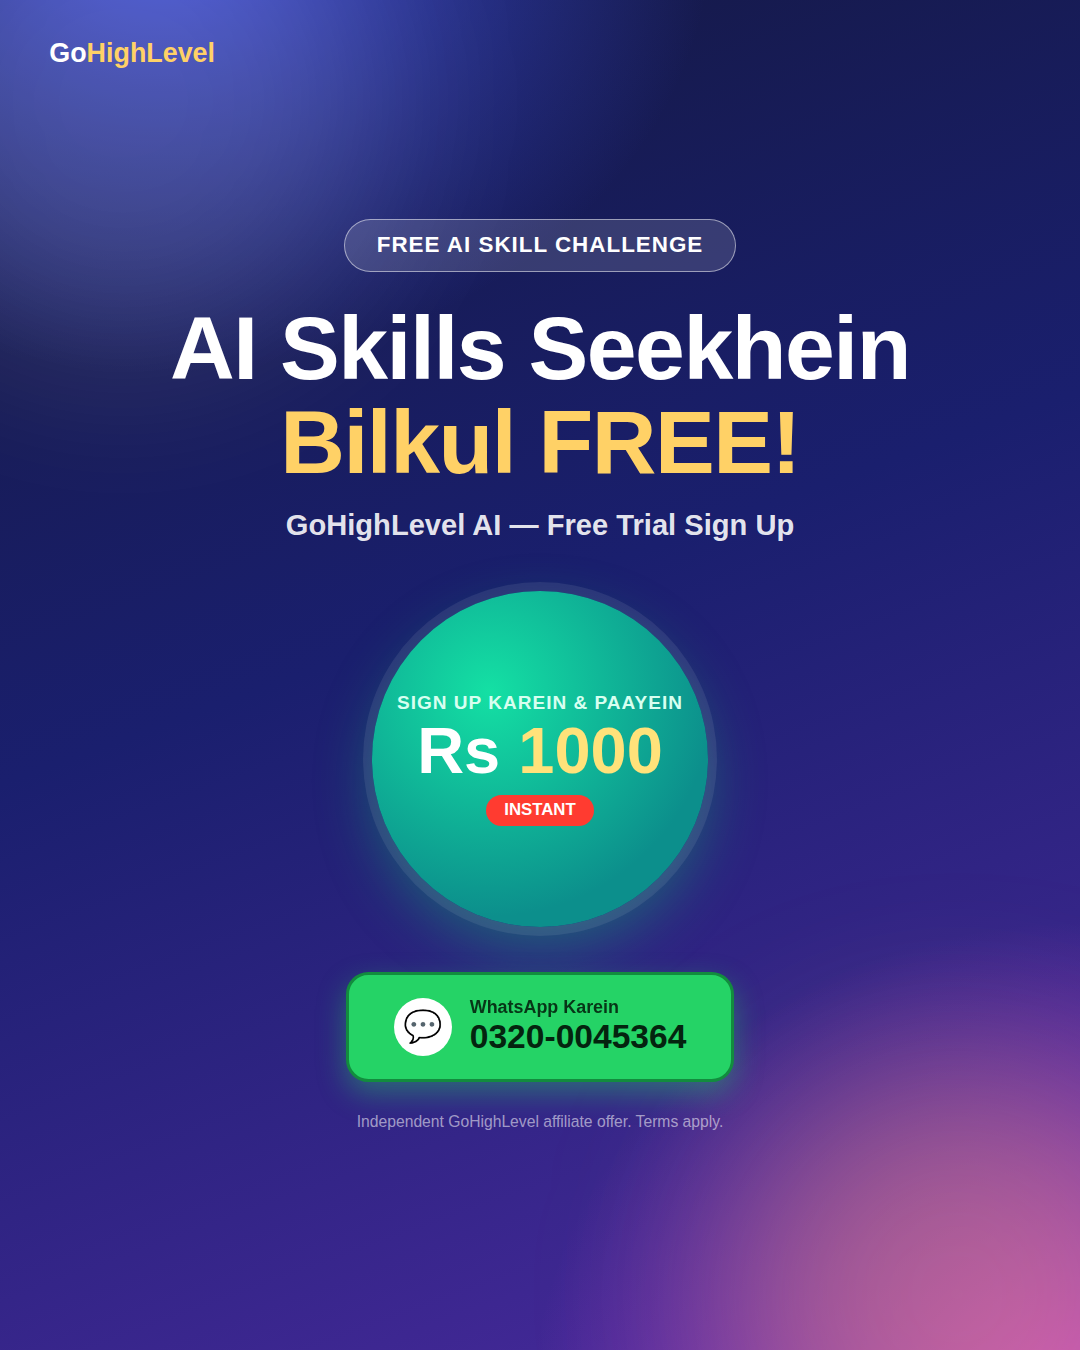
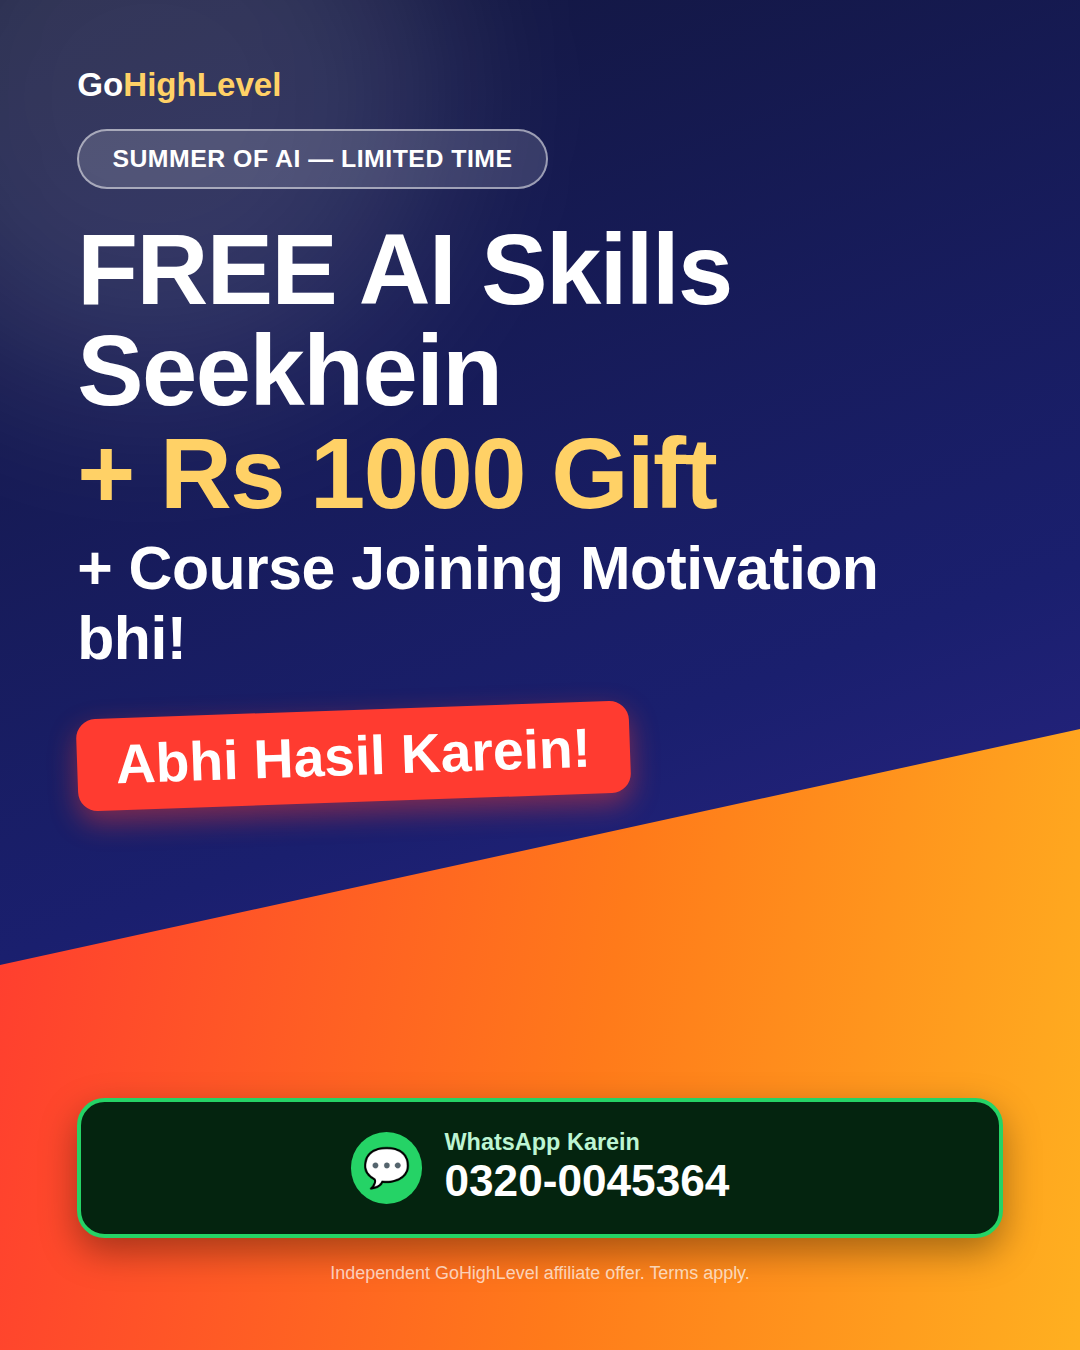
Redesign Pakistan ads with diagonal split layout and bigger bold text
New copy: "FREE AI Skills Seekhein + Rs 1000 Gift + Course Joining
Motivation bhi! Abhi Hasil Karein!" Layout changed from the centered
circular badge to a dynamic diagonal two-tone split with big
left-aligned stacked headline text, scaled larger and bolder per
format (1.08x / 1.38x / 1.85x for FB / IG / WhatsApp Status).

diff --git a/ads-source/gohighlevel-summer-of-ai-bold-pk/template.js b/ads-source/gohighlevel-summer-of-ai-bold-pk/template.js
@@ -10,86 +10,82 @@ function buildHtml({ width, height, scale }) {
 
   .stage {
     position:relative; width:100%; height:100%; overflow:hidden;
-    background: radial-gradient(1000px 800px at 15% -5%, #3b4bd8 0%, transparent 55%),
-                radial-gradient(1000px 900px at 100% 105%, #c23fd0 0%, transparent 55%),
-                linear-gradient(160deg, #14183f 0%, #1a1f6e 45%, #4a2a9e 100%);
-    display:flex; flex-direction:column; align-items:center; justify-content:center;
-    text-align:center; color:#fff; padding:0 ${64 * s}px;
+    background: linear-gradient(160deg, #12163c 0%, #1a1f6e 55%, #3b2a9e 100%);
+    color:#fff;
   }
-  .stage::before, .stage::after { content:""; position:absolute; border-radius:50%; filter:blur(90px); }
-  .stage::before { width:${460*s}px; height:${460*s}px; background:rgba(255,255,255,0.14); top:${-140*s}px; left:${-120*s}px; }
-  .stage::after { width:${420*s}px; height:${420*s}px; background:rgba(255,190,80,0.3); bottom:${-160*s}px; right:${-100*s}px; }
+  .diag {
+    position:absolute; left:0; right:0; bottom:0; height:46%;
+    background: linear-gradient(100deg, #ff3b30 0%, #ff7a1a 55%, #ffb020 100%);
+    clip-path: polygon(0 38%, 100% 0%, 100% 100%, 0% 100%);
+  }
+  .glow { position:absolute; border-radius:50%; filter:blur(90px); }
+  .glow1 { width:${420*s}px; height:${420*s}px; background:rgba(255,255,255,0.14); top:${-140*s}px; left:${-100*s}px; }
 
-  .brand { position:absolute; top:${34*s}px; left:${44*s}px; font-size:${24*s}px; font-weight:800; z-index:3; }
+  .content { position:relative; z-index:2; height:100%; display:flex; flex-direction:column; padding:${48*s}px ${56*s}px; }
+
+  .brand { font-size:${24*s}px; font-weight:800; margin-bottom:${18*s}px; }
   .brand .go{ color:#fff; } .brand .hl{ color:#ffd166; }
 
   .kicker {
-    position:relative; z-index:2; display:inline-block; padding:${11*s}px ${28*s}px; border-radius:999px;
+    display:inline-flex; align-self:flex-start; padding:${10*s}px ${24*s}px; border-radius:999px;
     background:rgba(255,255,255,0.14); border:${1.5*s}px solid rgba(255,255,255,0.5);
-    color:#fff; font-size:${20*s}px; font-weight:800; letter-spacing:1px; margin-bottom:${26*s}px;
+    color:#fff; font-size:${18*s}px; font-weight:800; letter-spacing:0.5px; margin-bottom:${22*s}px;
   }
 
-  h1 {
-    position:relative; z-index:2; font-size:${80*s}px; font-weight:900; line-height:1.05; letter-spacing:-1.5px;
-    margin-bottom:${18*s}px;
-  }
-  h1 .accent { color:#ffd166; }
+  .headline { text-align:left; margin-bottom:${16*s}px; }
+  .headline .l1 { font-size:${72*s}px; font-weight:900; line-height:1.02; letter-spacing:-1.5px; color:#fff; }
+  .headline .l2 { font-size:${72*s}px; font-weight:900; line-height:1.05; letter-spacing:-1.5px; color:#ffd166; }
+  .headline .l3 { font-size:${44*s}px; font-weight:800; line-height:1.15; letter-spacing:-0.5px; color:#fff; margin-top:${6*s}px; }
 
-  .subline {
-    position:relative; z-index:2; font-size:${26*s}px; font-weight:600; color:rgba(255,255,255,0.9);
-    margin-bottom:${44*s}px;
+  .punch {
+    align-self:flex-start; margin-top:${10*s}px; margin-bottom:${20*s}px;
+    font-size:${40*s}px; font-weight:900; color:#fff; background:#ff3b30;
+    padding:${10*s}px ${28*s}px; border-radius:${14*s}px; transform:rotate(-2deg);
+    box-shadow:0 ${8*s}px ${20*s}px rgba(255,59,48,0.45);
   }
 
-  .badge {
-    position:relative; z-index:2; display:flex; flex-direction:column; align-items:center; justify-content:center;
-    width:${300*s}px; height:${300*s}px; border-radius:50%;
-    background:radial-gradient(circle at 35% 30%, #14e0a4, #0c8f8c 70%);
-    box-shadow:0 0 0 ${8*s}px rgba(255,255,255,0.08), 0 ${20*s}px ${50*s}px rgba(15,174,114,0.45);
-    margin-bottom:${40*s}px;
-  }
-  .badge .lbl { font-size:${17*s}px; font-weight:800; letter-spacing:1px; color:#d7fff0; margin-bottom:${4*s}px; }
-  .badge .amt { font-size:${58*s}px; font-weight:900; color:#fff; line-height:1; }
-  .badge .amt span { color:#ffe27a; }
-  .badge .tag {
-    margin-top:${10*s}px; background:#ff3b30; color:#fff; font-weight:900; font-size:${15*s}px;
-    padding:${5*s}px ${16*s}px; border-radius:999px;
-  }
+  .spacer { flex:1 1 auto; }
 
   .waCta {
-    position:relative; z-index:2; display:flex; align-items:center; gap:${16*s}px; background:#25D366; color:#04240f;
-    border-radius:${20*s}px; padding:${20*s}px ${40*s}px; box-shadow:0 ${10*s}px ${26*s}px rgba(37,211,102,0.4);
-    border:${3*s}px solid #128c3e; margin-bottom:${28*s}px;
+    display:flex; align-items:center; gap:${16*s}px; background:#04240f; color:#fff;
+    border-radius:${20*s}px; padding:${20*s}px ${36*s}px; align-self:stretch; justify-content:center;
+    box-shadow:0 ${10*s}px ${26*s}px rgba(0,0,0,0.35); border:${3*s}px solid #25D366; margin-bottom:${18*s}px;
   }
   .waCta .icon {
-    width:${52*s}px; height:${52*s}px; border-radius:50%; background:#fff; display:flex; align-items:center;
+    width:${52*s}px; height:${52*s}px; border-radius:50%; background:#25D366; display:flex; align-items:center;
     justify-content:center; font-size:${28*s}px; flex:0 0 auto;
   }
   .waCta .txt { text-align:left; }
-  .waCta .txt .l1 { font-size:${16*s}px; font-weight:800; opacity:0.9; }
-  .waCta .txt .l2 { font-size:${30*s}px; font-weight:900; }
+  .waCta .txt .l1 { font-size:${17*s}px; font-weight:700; color:#bdf5d3; }
+  .waCta .txt .l2 { font-size:${32*s}px; font-weight:900; color:#fff; }
 
-  .fine { position:relative; z-index:2; font-size:${14*s}px; color:rgba(255,255,255,0.55); }
+  .fine { position:relative; z-index:2; font-size:${13*s}px; color:rgba(255,255,255,0.7); text-align:center; }
 </style>
 </head>
 <body>
   <div class="stage">
-    <div class="brand"><span class="go">Go</span><span class="hl">HighLevel</span></div>
-    <div class="kicker">FREE AI SKILL CHALLENGE</div>
-    <h1>AI Skills Seekhein<br><span class="accent">Bilkul FREE!</span></h1>
-    <p class="subline">GoHighLevel AI &mdash; Free Trial Sign Up</p>
-    <div class="badge">
-      <div class="lbl">SIGN UP KAREIN &amp; PAAYEIN</div>
-      <div class="amt">Rs <span>1000</span></div>
-      <div class="tag">INSTANT</div>
-    </div>
-    <div class="waCta">
-      <div class="icon">&#128172;</div>
-      <div class="txt">
-        <div class="l1">WhatsApp Karein</div>
-        <div class="l2">0320-0045364</div>
+    <div class="glow glow1"></div>
+    <div class="diag"></div>
+    <div class="content">
+      <div class="brand"><span class="go">Go</span><span class="hl">HighLevel</span></div>
+      <div class="kicker">SUMMER OF AI &mdash; LIMITED TIME</div>
+      <div class="headline">
+        <div class="l1">FREE AI Skills</div>
+        <div class="l1">Seekhein</div>
+        <div class="l2">+ Rs 1000 Gift</div>
+        <div class="l3">+ Course Joining Motivation bhi!</div>
       </div>
+      <div class="punch">Abhi Hasil Karein!</div>
+      <div class="spacer"></div>
+      <div class="waCta">
+        <div class="icon">&#128172;</div>
+        <div class="txt">
+          <div class="l1">WhatsApp Karein</div>
+          <div class="l2">0320-0045364</div>
+        </div>
+      </div>
+      <div class="fine">Independent GoHighLevel affiliate offer. Terms apply.</div>
     </div>
-    <div class="fine">Independent GoHighLevel affiliate offer. Terms apply.</div>
   </div>
 </body>
 </html>`;

diff --git a/ads-source/gohighlevel-summer-of-ai-bold-pk/render.js b/ads-source/gohighlevel-summer-of-ai-bold-pk/render.js
@@ -6,9 +6,9 @@ const path = require('path');
 const { buildHtml } = require('./template');
 
 const FORMATS = [
-  { name: 'facebook_1080x1080', width: 1080, height: 1080, scale: 1 },
-  { name: 'instagram_1080x1350', width: 1080, height: 1350, scale: 1.12 },
-  { name: 'whatsapp_status_1080x1920', width: 1080, height: 1920, scale: 1.62 },
+  { name: 'facebook_1080x1080', width: 1080, height: 1080, scale: 1.08 },
+  { name: 'instagram_1080x1350', width: 1080, height: 1350, scale: 1.38 },
+  { name: 'whatsapp_status_1080x1920', width: 1080, height: 1920, scale: 1.85 },
 ];
 
 (async () => {

diff --git a/ads-source/gohighlevel-summer-of-ai-bold-pk/README.md b/ads-source/gohighlevel-summer-of-ai-bold-pk/README.md
@@ -1,16 +1,23 @@
-# GoHighLevel "Summer of AI" — bold Pakistan-market version (poster style)
+# GoHighLevel "Summer of AI" — bold Pakistan-market version (diagonal split)
 
-A minimal, poster-style ad for a Pakistani audience: one focal composition
-instead of a stacked list of sections, hitting only 3 points —
+Third iteration of this ad. Style changed again per feedback ("change the
+ad view") to a diagonal two-tone split (deep blue/purple over a fiery
+red-orange wedge) with big, bold, **left-aligned stacked headline text**
+instead of the earlier centered circular badge — a more dynamic,
+sale-banner-style layout, still hitting only the main points:
 
-1. **"AI Skills Seekhein — Bilkul FREE!"** — the headline, learn AI skills for free
-2. **Rs 1000 INSTANT** — a glowing circular badge, the money hook
-3. **WhatsApp Karein — 0320-0045364** — the single call to action
+1. **"FREE AI Skills Seekhein"** — headline
+2. **"+ Rs 1000 Gift"** — money hook, in yellow
+3. **"+ Course Joining Motivation bhi!"** — the specific phrase requested
+4. **"Abhi Hasil Karein!"** — red punch-tag urgency line
+5. **WhatsApp Karein — 0320-0045364** — the CTA
 
-Everything else from the earlier, more detailed version (feature chips,
-the 4-bullet offer list, the urgency bar, the long disclosure paragraph)
-was cut in favor of fewer, bigger elements — per feedback to change the
-style and lead with main points instead of detail.
+Text sizes were bumped further per "make text more big more bold" — each
+format uses a different `scale` multiplier (1.08 / 1.38 / 1.85 for
+Facebook / Instagram / WhatsApp Status) so the bigger canvases get
+proportionally bigger, bolder type instead of empty space. At the largest
+scale (WhatsApp Status) "FREE AI Skills" wraps to two lines, which is
+expected and still reads fine.
 
 ## Output
 
@@ -18,24 +25,17 @@ style and lead with main points instead of detail.
 - `public/ads/gohighlevel-summer-of-ai-bold-pk/images/instagram_1080x1350.png`
 - `public/ads/gohighlevel-summer-of-ai-bold-pk/images/whatsapp_status_1080x1920.png`
 
-Single full-bleed gradient background (no separate hero/body sections),
-centered composition, one scale factor per format so type and the badge
-size up for the taller Instagram/WhatsApp Status canvases instead of just
-leaving empty space.
-
 ## ⚠ Before you post these
 
-1. **The 30-day training / JazzCash-EasyPaisa-NayaPay-SadaPay/bank-transfer
-   details are gone from the image** — they're still the real commitment
-   behind "Rs 1000 INSTANT," just no longer spelled out on the creative
-   itself. Say the specifics yourself once someone messages you on
-   WhatsApp, and make sure you can still deliver them (instant payout +
-   showing up for training) at whatever volume this drives.
-2. **Affiliate link still isn't on the image** — add your tracked link in
-   the caption/bio wherever you post these; the only in-image CTA is the
-   WhatsApp number.
-3. **No fake scarcity was added.** If you want real urgency (e.g. "first 50
-   sign-ups only"), only add it if it's true and you'll actually enforce it.
+1. **"Course Joining Motivation" is now an explicit promise on the
+   creative** — make sure whatever you deliver over WhatsApp (the 30-day
+   training, encouragement, etc.) actually matches what someone would
+   expect from that phrase.
+2. **Rs 1000 Gift + payout details are not spelled out on the image** —
+   same as the previous version, you explain JazzCash/EasyPaisa/etc. and
+   verify sign-ups yourself over WhatsApp.
+3. **Affiliate link still isn't on the image** — add your tracked link in
+   the caption/bio wherever you post these.
 
 ## Regenerating
 
@@ -49,5 +49,5 @@ Copy the results into `../../public/ads/gohighlevel-summer-of-ai-bold-pk/images/
 
 ## Files
 
-- `template.js` — single-composition poster template; takes `{width, height, scale}` and scales every size/spacing value by `scale`
-- `render.js` — renders all 3 formats via Playwright screenshots (scale: 1 / 1.12 / 1.62 for Facebook / Instagram / WhatsApp Status)
+- `template.js` — diagonal split-background template; takes `{width, height, scale}`, scales every size/spacing value by `scale`
+- `render.js` — renders all 3 formats via Playwright screenshots
